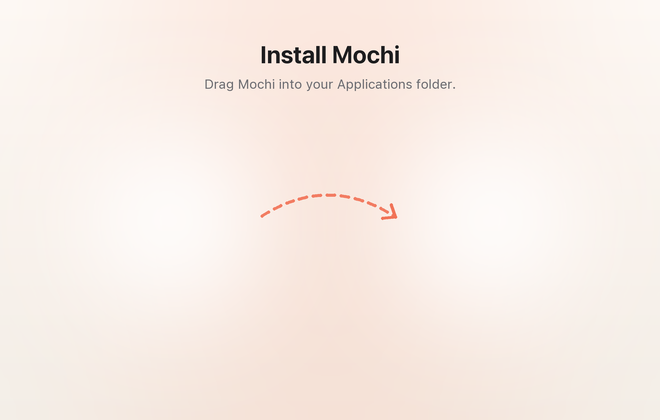
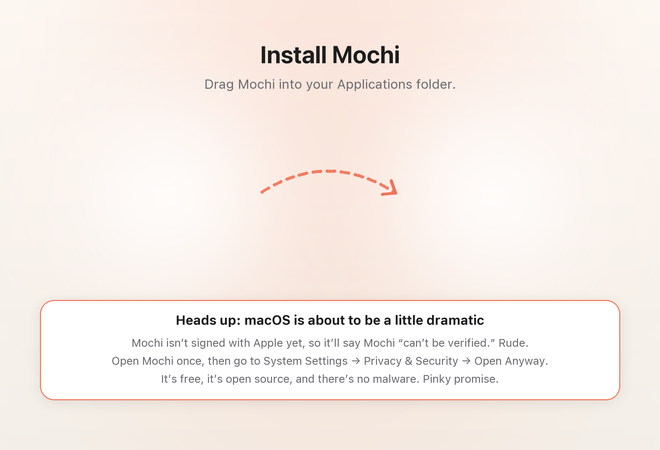
Explain the unverified-developer prompt in the DMG window

diff --git a/scripts/make-dmg-background.py b/scripts/make-dmg-background.py
@@ -9,9 +9,9 @@ from pathlib import Path
 
 from PIL import Image, ImageDraw, ImageFilter, ImageFont
 
-WIDTH, HEIGHT = 660, 420
-APP_CENTER = (170, 220)
-APPLICATIONS_CENTER = (490, 220)
+WIDTH, HEIGHT = 660, 450
+APP_CENTER = (170, 196)
+APPLICATIONS_CENTER = (490, 196)
 SUPERSAMPLE = 4
 
 INK = (29, 29, 31)
@@ -105,6 +105,24 @@ def centered_text(draw, y, text, f, color):
     draw.text(((s(WIDTH) - (right - left)) / 2 - left, s(y)), text, font=f, fill=color)
 
 
+def gatekeeper_note(canvas):
+    # Mochi ships without an Apple Developer ID, so Gatekeeper blocks the first launch.
+    left, top, right, bottom = 40, 300, WIDTH - 40, 400
+    shadow = Image.new("RGBA", canvas.size, (0, 0, 0, 0))
+    ImageDraw.Draw(shadow).rounded_rectangle((s(left), s(top + 2), s(right), s(bottom + 2)), radius=s(14), fill=(0, 0, 0, 22))
+    canvas.alpha_composite(shadow.filter(ImageFilter.GaussianBlur(s(6))))
+    draw = ImageDraw.Draw(canvas)
+    draw.rounded_rectangle((s(left), s(top), s(right), s(bottom)), radius=s(14), fill=(255, 255, 255, 235), outline=CORAL + (90,), width=s(1))
+    centered_text(draw, top + 12, "Heads up: macOS is about to be a little dramatic", font(13, 680), INK + (255,))
+    lines = [
+        "Mochi isn’t signed with Apple yet, so it’ll say Mochi “can’t be verified.” Rude.",
+        "Open Mochi once, then go to System Settings → Privacy & Security → Open Anyway.",
+        "It’s free, it’s open source, and there’s no malware. Pinky promise.",
+    ]
+    for index, line in enumerate(lines):
+        centered_text(draw, top + 36 + index * 18, line, font(11, 430), MUTED + (255,))
+
+
 def render():
     size = (s(WIDTH), s(HEIGHT))
     canvas = vertical_gradient(size, TOP, BOTTOM).convert("RGBA")
@@ -116,6 +134,7 @@ def render():
     draw = ImageDraw.Draw(canvas)
     centered_text(draw, 40, "Install Mochi", font(24, 680), INK + (255,))
     centered_text(draw, 76, "Drag Mochi into your Applications folder.", font(13, 420), MUTED + (255,))
+    gatekeeper_note(canvas)
     return canvas.convert("RGB")
 
 

diff --git a/scripts/dmg-settings.py b/scripts/dmg-settings.py
@@ -15,7 +15,8 @@ hide_extensions = [app_name]
 icon = os.path.join(root, "Packaging", "AppIcon.icns")
 
 background = os.path.join(root, "Packaging", "dmg-background.png")
-window_rect = ((200, 140), (660, 420))
+# The window height includes the title bar and, when the user has it enabled, Finder's path bar.
+window_rect = ((200, 140), (660, 480))
 default_view = "icon-view"
 show_status_bar = False
 show_tab_view = False
@@ -30,6 +31,6 @@ icon_size = 128
 text_size = 13
 label_pos = "bottom"
 icon_locations = {
-    app_name: (170, 220),
-    "Applications": (490, 220),
+    app_name: (170, 196),
+    "Applications": (490, 196),
 }
